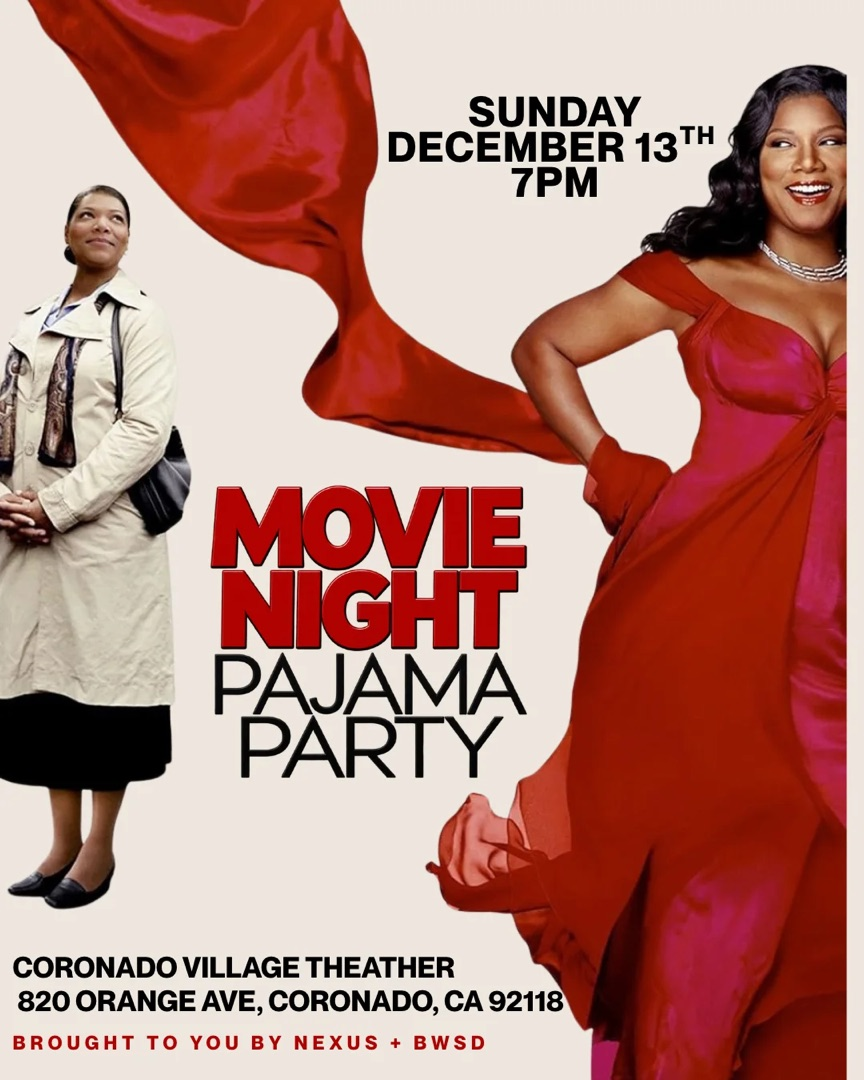
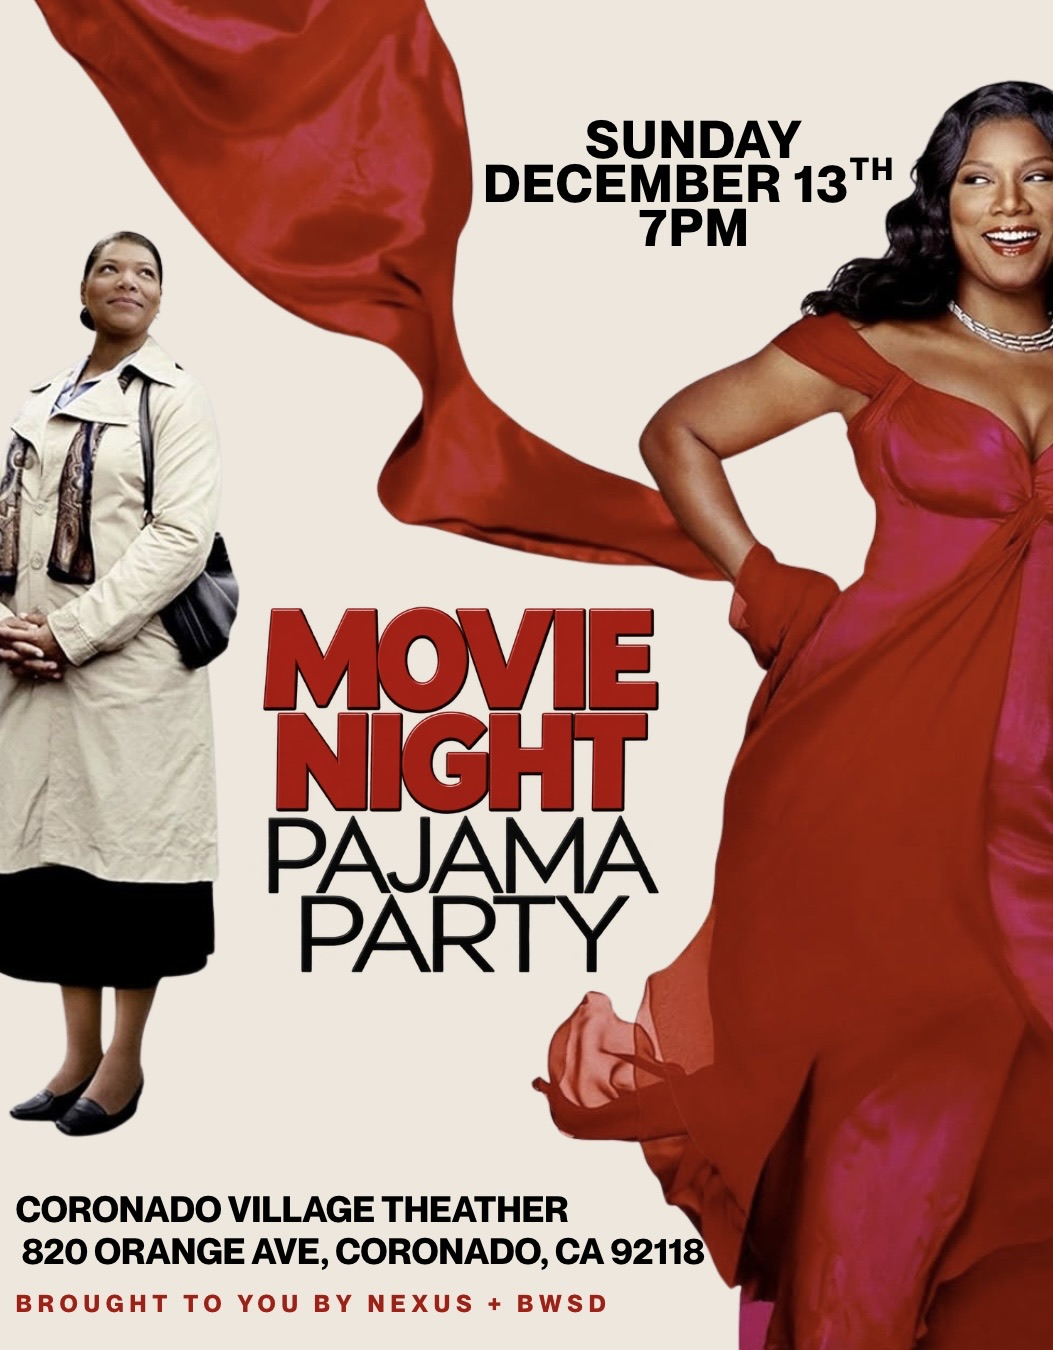
Movie Night: new flyer with the clean border cut (page, share previews, email)

diff --git a/index.html b/index.html
@@ -4950,7 +4950,7 @@ body:has(.nx-ov:not([hidden])) .bb-sticky{display:none;}
     .pj-when span{font:.72rem/1.7 'Space Mono',monospace;color:#6b4a4c;}
     /* Flyer fits the screen: never taller than the window, straight (a tilt blurs its small text), tap to open full size */
     .pj-flyer-link{justify-self:center;align-self:start;position:sticky;top:84px;display:block;line-height:0;cursor:none;text-decoration:none;}
-    .pj-flyer{display:block;width:auto;height:auto;max-width:100%;max-height:min(calc(100vh - 170px),620px);aspect-ratio:1080/1350;object-fit:contain;border-radius:18px;border:6px solid #fff;box-shadow:0 24px 60px rgba(143,16,21,.25);}
+    .pj-flyer{display:block;width:auto;height:auto;max-width:100%;max-height:min(calc(100vh - 170px),620px);aspect-ratio:1053/1350;object-fit:contain;border-radius:18px;border:6px solid #fff;box-shadow:0 24px 60px rgba(143,16,21,.25);}
     .pj-flyer-tip{display:block;margin-top:.6rem;text-align:center;font:700 .6rem "Space Mono",monospace;letter-spacing:.14em;text-transform:uppercase;color:#a3343a;line-height:1.4;}
     .pj-card{margin-top:2.6rem;background:#fff;border-radius:30px;padding:2rem 1.6rem;box-shadow:0 24px 60px rgba(143,16,21,.16);border:2px solid var(--pj-pink);display:grid;grid-template-columns:1fr auto;gap:1.6rem;align-items:center;position:relative;overflow:hidden;}
     .pj-card::before{content:'';position:absolute;right:-60px;top:-60px;width:220px;height:220px;border-radius:50%;background:radial-gradient(circle,var(--pj-blush),transparent 70%);}
@@ -4997,7 +4997,7 @@ body:has(.nx-ov:not([hidden])) .bb-sticky{display:none;}
             <p class="pj-lede">Film screening and pajama party.</p>
             <div class="pj-when"><b>Sunday, Dec 13 · 6:30–9:30 PM</b><span>UltraStar Coronado Village Theatre · 820 Orange Ave, Coronado</span></div>
           </div>
-          <a class="pj-flyer-link" href="images/movie-night/flyer.webp" target="_blank" rel="noopener" aria-label="Open the Movie Night flyer full size"><img class="pj-flyer" src="images/movie-night/flyer.webp" width="1080" height="1350" alt="Movie Night Pajama Party flyer: Sunday December 13th, 6:30 PM, UltraStar Coronado Village Theatre, 820 Orange Ave, Coronado. Brought to you by Nexus + BWSD."><span class="pj-flyer-tip">Tap to view full size ↗</span></a>
+          <a class="pj-flyer-link" href="images/movie-night/flyer.jpg?v=3" target="_blank" rel="noopener" aria-label="Open the Movie Night flyer full size"><img class="pj-flyer" src="images/movie-night/flyer.jpg?v=3" width="1053" height="1350" alt="Movie Night Pajama Party flyer: Sunday December 13th, 6:30 PM, UltraStar Coronado Village Theatre, 820 Orange Ave, Coronado. Brought to you by Nexus + BWSD."><span class="pj-flyer-tip">Tap to view full size ↗</span></a>
         </section>
 
         <div class="pj-card" id="pj-tickets">

diff --git a/pajamaparty/index.html b/pajamaparty/index.html
@@ -7,7 +7,7 @@
 <meta name="description" content="A film screening and pajama party for Black women in San Diego. Last Holiday · Sun, Dec 13 · 6:30–9:30 PM · UltraStar Coronado Village Theatre. Tickets $26.">
 <meta property="og:title" content="Movie Night Pajama Party · Dec 13">
 <meta property="og:description" content="Last Holiday on the big screen · Sun, Dec 13 · 6:30–9:30 PM · UltraStar Coronado Village Theatre · Tickets $26">
-<meta property="og:image" content="https://nexusglobal.info/images/movie-night/flyer.jpg">
+<meta property="og:image" content="https://nexusglobal.info/images/movie-night/flyer.jpg?v=3">
 <meta property="og:url" content="https://nexusglobal.info/pajamaparty/">
 <meta name="twitter:card" content="summary_large_image">
 <meta http-equiv="refresh" content="0; url=/#/film/movie-night">

diff --git a/movienight/index.html b/movienight/index.html
@@ -7,7 +7,7 @@
 <meta name="description" content="A film screening and pajama party for Black women in San Diego. Last Holiday · Sun, Dec 13 · 6:30–9:30 PM · UltraStar Coronado Village Theatre. Tickets $26.">
 <meta property="og:title" content="Movie Night Pajama Party · Dec 13">
 <meta property="og:description" content="Last Holiday on the big screen · Sun, Dec 13 · 6:30–9:30 PM · UltraStar Coronado Village Theatre · Tickets $26">
-<meta property="og:image" content="https://nexusglobal.info/images/movie-night/flyer.jpg">
+<meta property="og:image" content="https://nexusglobal.info/images/movie-night/flyer.jpg?v=3">
 <meta property="og:url" content="https://nexusglobal.info/movienight/">
 <meta name="twitter:card" content="summary_large_image">
 <meta http-equiv="refresh" content="0; url=/#/film/movie-night">
